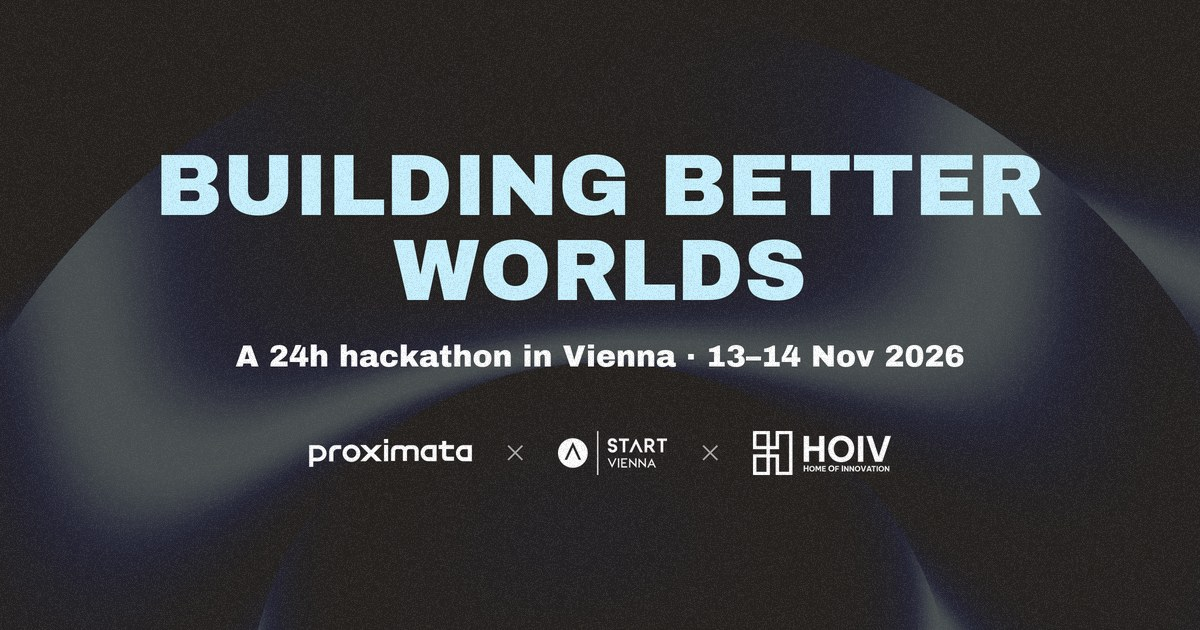
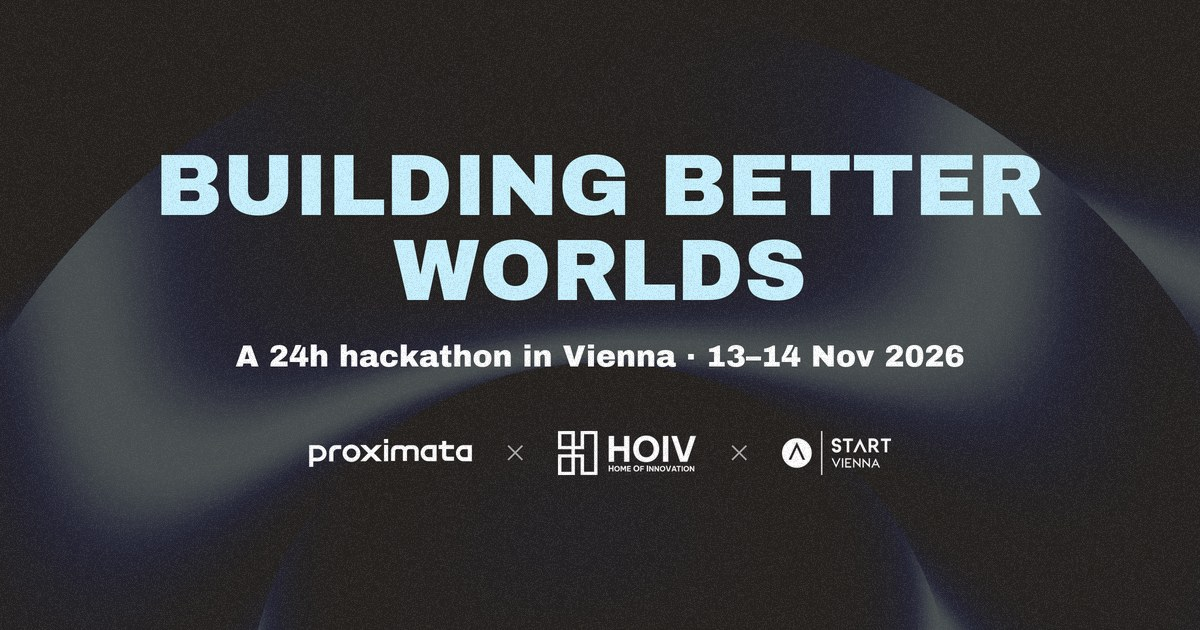
feat(organisers): show HOIV beside proximata as co-host
HOIV now sits right next to the proximata wordmark in the header and
footer, and the in-cooperation-with line names START Vienna alone. The
organiser cards, page title and link preview follow the same order:
proximata × HOIV × START Vienna.

Changed region(s): [[0.4625, 0.6635, 0.74, 0.754]]

diff --git a/src/components/sites/proximata/header.tsx b/src/components/sites/proximata/header.tsx
@@ -6,16 +6,25 @@ import { useEffect, useState } from "react";
 import { cn } from "@/lib/utils";
 import { navLinks, registerLink } from "./content/navigation";
 import { ButtonLink } from "./framer-button";
-import { ProximataWordmark } from "./logo";
+import { HostLockup, ProximataWordmark } from "./logo";
 import { EASE_FRAMER } from "./motion";
 import { NavPill } from "./nav-pill";
 
-/** Wordmark home link; widths stay at or above the brand book's 120px minimum. */
+/**
+ * The wordmark as the home link with HOIV, the co-host, right beside it.
+ * Widths stay at or above the brand book's 120px minimum.
+ */
 function Logo({ width }: { width: number }) {
   return (
-    <Link href="/" aria-label="Proximata home" className="block shrink-0">
-      <ProximataWordmark width={width} priority />
-    </Link>
+    <HostLockup
+      wordmarkWidth={width}
+      priority
+      wordmark={
+        <Link href="/" aria-label="Proximata home" className="block shrink-0">
+          <ProximataWordmark width={width} priority />
+        </Link>
+      }
+    />
   );
 }
 
@@ -77,11 +86,17 @@ function MenuIcon({ open, onToggle }: { open: boolean; onToggle: () => void }) {
   );
 }
 
-function DesktopNav() {
+/** `compact` (tablets once scrolled) tightens the bar so it fits from 810px up. */
+function DesktopNav({ compact = false }: { compact?: boolean }) {
   return (
     <nav aria-label="Primary" className="flex justify-center px-10 pb-2">
-      <div className="relative flex items-center justify-center gap-[52px] bg-ink/70 px-4 py-[10px] backdrop-blur-[10px] after:pointer-events-none after:absolute after:inset-0 after:border after:border-t-0 after:border-dashed after:border-white/[0.14] after:content-['']">
-        <Logo width={150} />
+      <div
+        className={cn(
+          "relative flex items-center justify-center bg-ink/70 px-4 py-[10px] backdrop-blur-[10px] after:pointer-events-none after:absolute after:inset-0 after:border after:border-t-0 after:border-dashed after:border-white/[0.14] after:content-['']",
+          compact ? "gap-8" : "gap-[52px]",
+        )}
+      >
+        <Logo width={compact ? 130 : 150} />
         <ul className="flex items-center gap-2">
           {navLinks.map((link) => (
             <li key={link.label}>
@@ -172,7 +187,7 @@ export function Header() {
         <DesktopNav />
       </div>
       <div className={cn("hidden tablet:max-desktop:block", atTop && "tablet:max-desktop:hidden")}>
-        <DesktopNav />
+        <DesktopNav compact />
       </div>
       <div className={cn("hidden", atTop && "tablet:max-desktop:block")}>
         <CompactNav variant="tablet" />

diff --git a/src/components/sites/proximata/sections/sponsors.tsx b/src/components/sites/proximata/sections/sponsors.tsx
@@ -14,10 +14,10 @@ const LOGO_HEIGHT = 30;
 /** Equal-height slots so all organiser captions sit on one line. */
 const organiserSlot = "flex h-10 items-center justify-center tablet:h-12";
 
-/** START Vienna and HOIV share one height, so neither reads larger. */
+/** HOIV and START Vienna share one height, so neither reads larger. */
 const CO_ORGANISER_LOGO_HEIGHT = 40;
 
-const [, hoiv] = event.coOrganisers;
+const hoiv = event.coHost;
 
 function Divider() {
   return (
@@ -30,9 +30,10 @@ function Divider() {
 }
 
 /**
- * Proximata × START Vienna × HOIV, the hackathon's three organisers. Phones
- * give Proximata its own row with the two co-organisers side by side below;
- * from tablet up all three sit in one row with × dividers.
+ * Proximata × HOIV × START Vienna, the hackathon's three organisers: HOIV
+ * co-hosts beside Proximata, START Vienna cooperates. Phones give Proximata
+ * its own row with the other two side by side below; from tablet up all three
+ * sit in one row with × dividers.
  */
 function Organisers() {
   return (
@@ -46,13 +47,6 @@ function Organisers() {
       </figure>
       <Divider />
       <figure className="m-0 flex flex-col items-center gap-4">
-        <span className={organiserSlot}>
-          <StartViennaLogo height={CO_ORGANISER_LOGO_HEIGHT} />
-        </span>
-        <figcaption className={caption}>{partnersCopy.coOrganiser}</figcaption>
-      </figure>
-      <Divider />
-      <figure className="m-0 flex flex-col items-center gap-4">
         <a
           href={hoiv.url}
           target="_blank"
@@ -62,6 +56,13 @@ function Organisers() {
           <HoivLogo height={CO_ORGANISER_LOGO_HEIGHT} />
         </a>
         <figcaption className={caption}>{partnersCopy.coOrganiserVenue}</figcaption>
+      </figure>
+      <Divider />
+      <figure className="m-0 flex flex-col items-center gap-4">
+        <span className={organiserSlot}>
+          <StartViennaLogo height={CO_ORGANISER_LOGO_HEIGHT} />
+        </span>
+        <figcaption className={caption}>{partnersCopy.coOrganiser}</figcaption>
       </figure>
     </Reveal>
   );

diff --git a/src/components/sites/proximata/logo.tsx b/src/components/sites/proximata/logo.tsx
@@ -1,4 +1,5 @@
 import Image from "next/image";
+import type { ReactNode } from "react";
 import { cn } from "@/lib/utils";
 
 // Logo stand-ins: white rasters extracted from the brand book (see
@@ -70,10 +71,33 @@ export function HoivLogo(props: LogoProps) {
 }
 
 /**
- * "in cooperation with [START Vienna] [HOIV]" lockup for the hero and footer.
- * Both co-organiser logos share one height and the lockup's own gap. On narrow
- * screens the logo pair wraps under the label as one unit.
+ * proximata and HOIV, the event's two hosts, side by side: HOIV at the
+ * wordmark's height after a hairline. Pass `wordmark` to wrap the wordmark,
+ * e.g. in the header's home link.
  */
+export function HostLockup({
+  wordmarkWidth,
+  wordmark,
+  priority,
+  className,
+}: {
+  wordmarkWidth: number;
+  wordmark?: ReactNode;
+  priority?: boolean;
+  className?: string;
+}) {
+  const height = (wordmarkWidth * WORDMARK.h) / WORDMARK.w;
+
+  return (
+    <span className={cn("flex shrink-0 items-center gap-3", className)}>
+      {wordmark ?? <ProximataWordmark width={wordmarkWidth} priority={priority} />}
+      <span aria-hidden="true" className="w-px self-stretch bg-white/25" />
+      <HoivLogo height={height} priority={priority} />
+    </span>
+  );
+}
+
+/** "in cooperation with [START Vienna]" lockup for the hero and footer. */
 export function CoopLockup({ className, logoHeight = 36 }: { className?: string; logoHeight?: number }) {
   return (
     <p
@@ -83,10 +107,7 @@ export function CoopLockup({ className, logoHeight = 36 }: { className?: string;
       )}
     >
       <span>in cooperation with</span>
-      <span className="flex items-center gap-3">
-        <StartViennaLogo height={logoHeight} />
-        <HoivLogo height={logoHeight} />
-      </span>
+      <StartViennaLogo height={logoHeight} />
     </p>
   );
 }

diff --git a/src/components/sites/proximata/content/event.ts b/src/components/sites/proximata/content/event.ts
@@ -8,14 +8,10 @@ export const event = {
   name: "Building Better Worlds",
   fullName: "Building Better Worlds Hackathon",
   organiser: "Proximata",
-  /**
-   * The two co-organisers, shown as "in cooperation with START Vienna & HOIV".
-   * HOIV also hosts the event as the venue.
-   */
-  coOrganisers: [
-    { name: "START Vienna", short: "START Vienna", url: "https://www.start-vienna.com/" },
-    { name: "HOIV – Home of InnoVation", short: "HOIV", url: "https://homeofinnovationx.com" },
-  ],
+  /** Hosts the event with Proximata and is the venue; shown right beside the Proximata wordmark. */
+  coHost: { name: "HOIV – Home of InnoVation", short: "HOIV", url: "https://homeofinnovationx.com" },
+  /** Shown as "in cooperation with START Vienna". */
+  cooperation: { name: "START Vienna", url: "https://www.start-vienna.com/" },
   poweredBy: { name: "HOIV – Home of InnoVation", short: "HOIV" },
   /** CET (UTC+1) on both days. */
   startsAt: "2026-11-13T14:00:00+01:00",

diff --git a/src/components/sites/proximata/content/partners.ts b/src/components/sites/proximata/content/partners.ts
@@ -1,6 +1,6 @@
-// Sponsors and partners for the logo wall. START Vienna and HOIV co-organise
-// the hackathon (HOIV is also the venue), so they sit in the organiser cards,
-// not in this list. Logos are flat white files built by
+// Sponsors and partners for the logo wall. HOIV co-hosts the hackathon (and is
+// the venue) and START Vienna cooperates on it, so both sit in the organiser
+// cards, not in this list. Logos are flat white files built by
 // scripts/build-partner-logos.py from each organisation's own artwork.
 
 export type PartnerGroup = "sponsor" | "partner";
@@ -32,7 +32,7 @@ export type Partner = {
 
 export const partnersCopy = {
   tag: "PARTNERS",
-  title: "In Cooperation With START Vienna & HOIV",
+  title: "In Cooperation With START Vienna",
   organiser: "Organiser",
   coOrganiser: "Co-organiser",
   coOrganiserVenue: "Co-organiser & Venue",

diff --git a/src/components/sites/proximata/sections/footer.tsx b/src/components/sites/proximata/sections/footer.tsx
@@ -1,7 +1,7 @@
 import { footerCopy, footerExternalLinks, imageCredits } from "../content/footer";
 import { navLinks } from "../content/navigation";
 import { ButtonLink } from "../framer-button";
-import { CoopLockup, ProximataWordmark } from "../logo";
+import { CoopLockup, HostLockup } from "../logo";
 import { LogoGlass } from "../logo-glass";
 import { Reveal } from "../motion";
 import { NavPill } from "../nav-pill";
@@ -43,7 +43,7 @@ export function Footer() {
             <div className="flex w-full flex-col items-start gap-10 tablet:flex-1">
               {/* Wordmark clear space (height of its "o") is kept by the gaps around it. */}
               <div className="flex flex-col items-start gap-6">
-                <ProximataWordmark width={180} />
+                <HostLockup wordmarkWidth={180} />
                 <CoopLockup />
               </div>
 

diff --git a/src/app/layout.tsx b/src/app/layout.tsx
@@ -4,7 +4,7 @@ import { event } from "@/components/sites/proximata/content/event";
 import { fontVariables } from "@/components/sites/proximata/fonts";
 import "./globals.css";
 
-const title = `${event.fullName} · proximata × START Vienna × HOIV`;
+const title = `${event.fullName} · proximata × HOIV × START Vienna`;
 
 /** Absolute base for link previews; set NEXT_PUBLIC_SITE_URL once the domain is known. */
 const siteUrl =
@@ -17,7 +17,7 @@ const ogImage = {
   url: "/sites/proximata/images/og/building-better-worlds.jpg",
   width: 1200,
   height: 630,
-  alt: "Building Better Worlds: a 24h hackathon in Vienna, 13–14 Nov 2026, by proximata × START Vienna × HOIV",
+  alt: "Building Better Worlds: a 24h hackathon in Vienna, 13–14 Nov 2026, by proximata × HOIV × START Vienna",
 };
 
 export const metadata: Metadata = {

diff --git a/scripts/build-og-image.py b/scripts/build-og-image.py
@@ -3,8 +3,8 @@
 
 The card mirrors the hero: the hero glow at the page's 22% over ink, the
 site's grain, "BUILDING BETTER WORLDS" in Archivo Black and brand ice, the
-"24h hackathon" line, and the organiser lockup proximata × START Vienna ×
-HOIV as on the partners section. It names no sponsors, so it stays correct
+"24h hackathon" line, and the organiser lockup proximata × HOIV × START
+Vienna as on the partners section. It names no sponsors, so it stays correct
 when the sponsor list changes.
 
 Usage: python3 -I scripts/build-og-image.py
@@ -49,8 +49,8 @@ WORDMARK_WIDTH = round(148 * CO_LOGO_HEIGHT / 40)
 LOCKUP_GAP = 36
 LOGOS = (
     IMAGES / "brand/proximata-wordmark.png",
-    IMAGES / "partners/start-vienna-white.png",
     IMAGES / "partners/hoiv.png",
+    IMAGES / "partners/start-vienna-white.png",
 )
 
 
